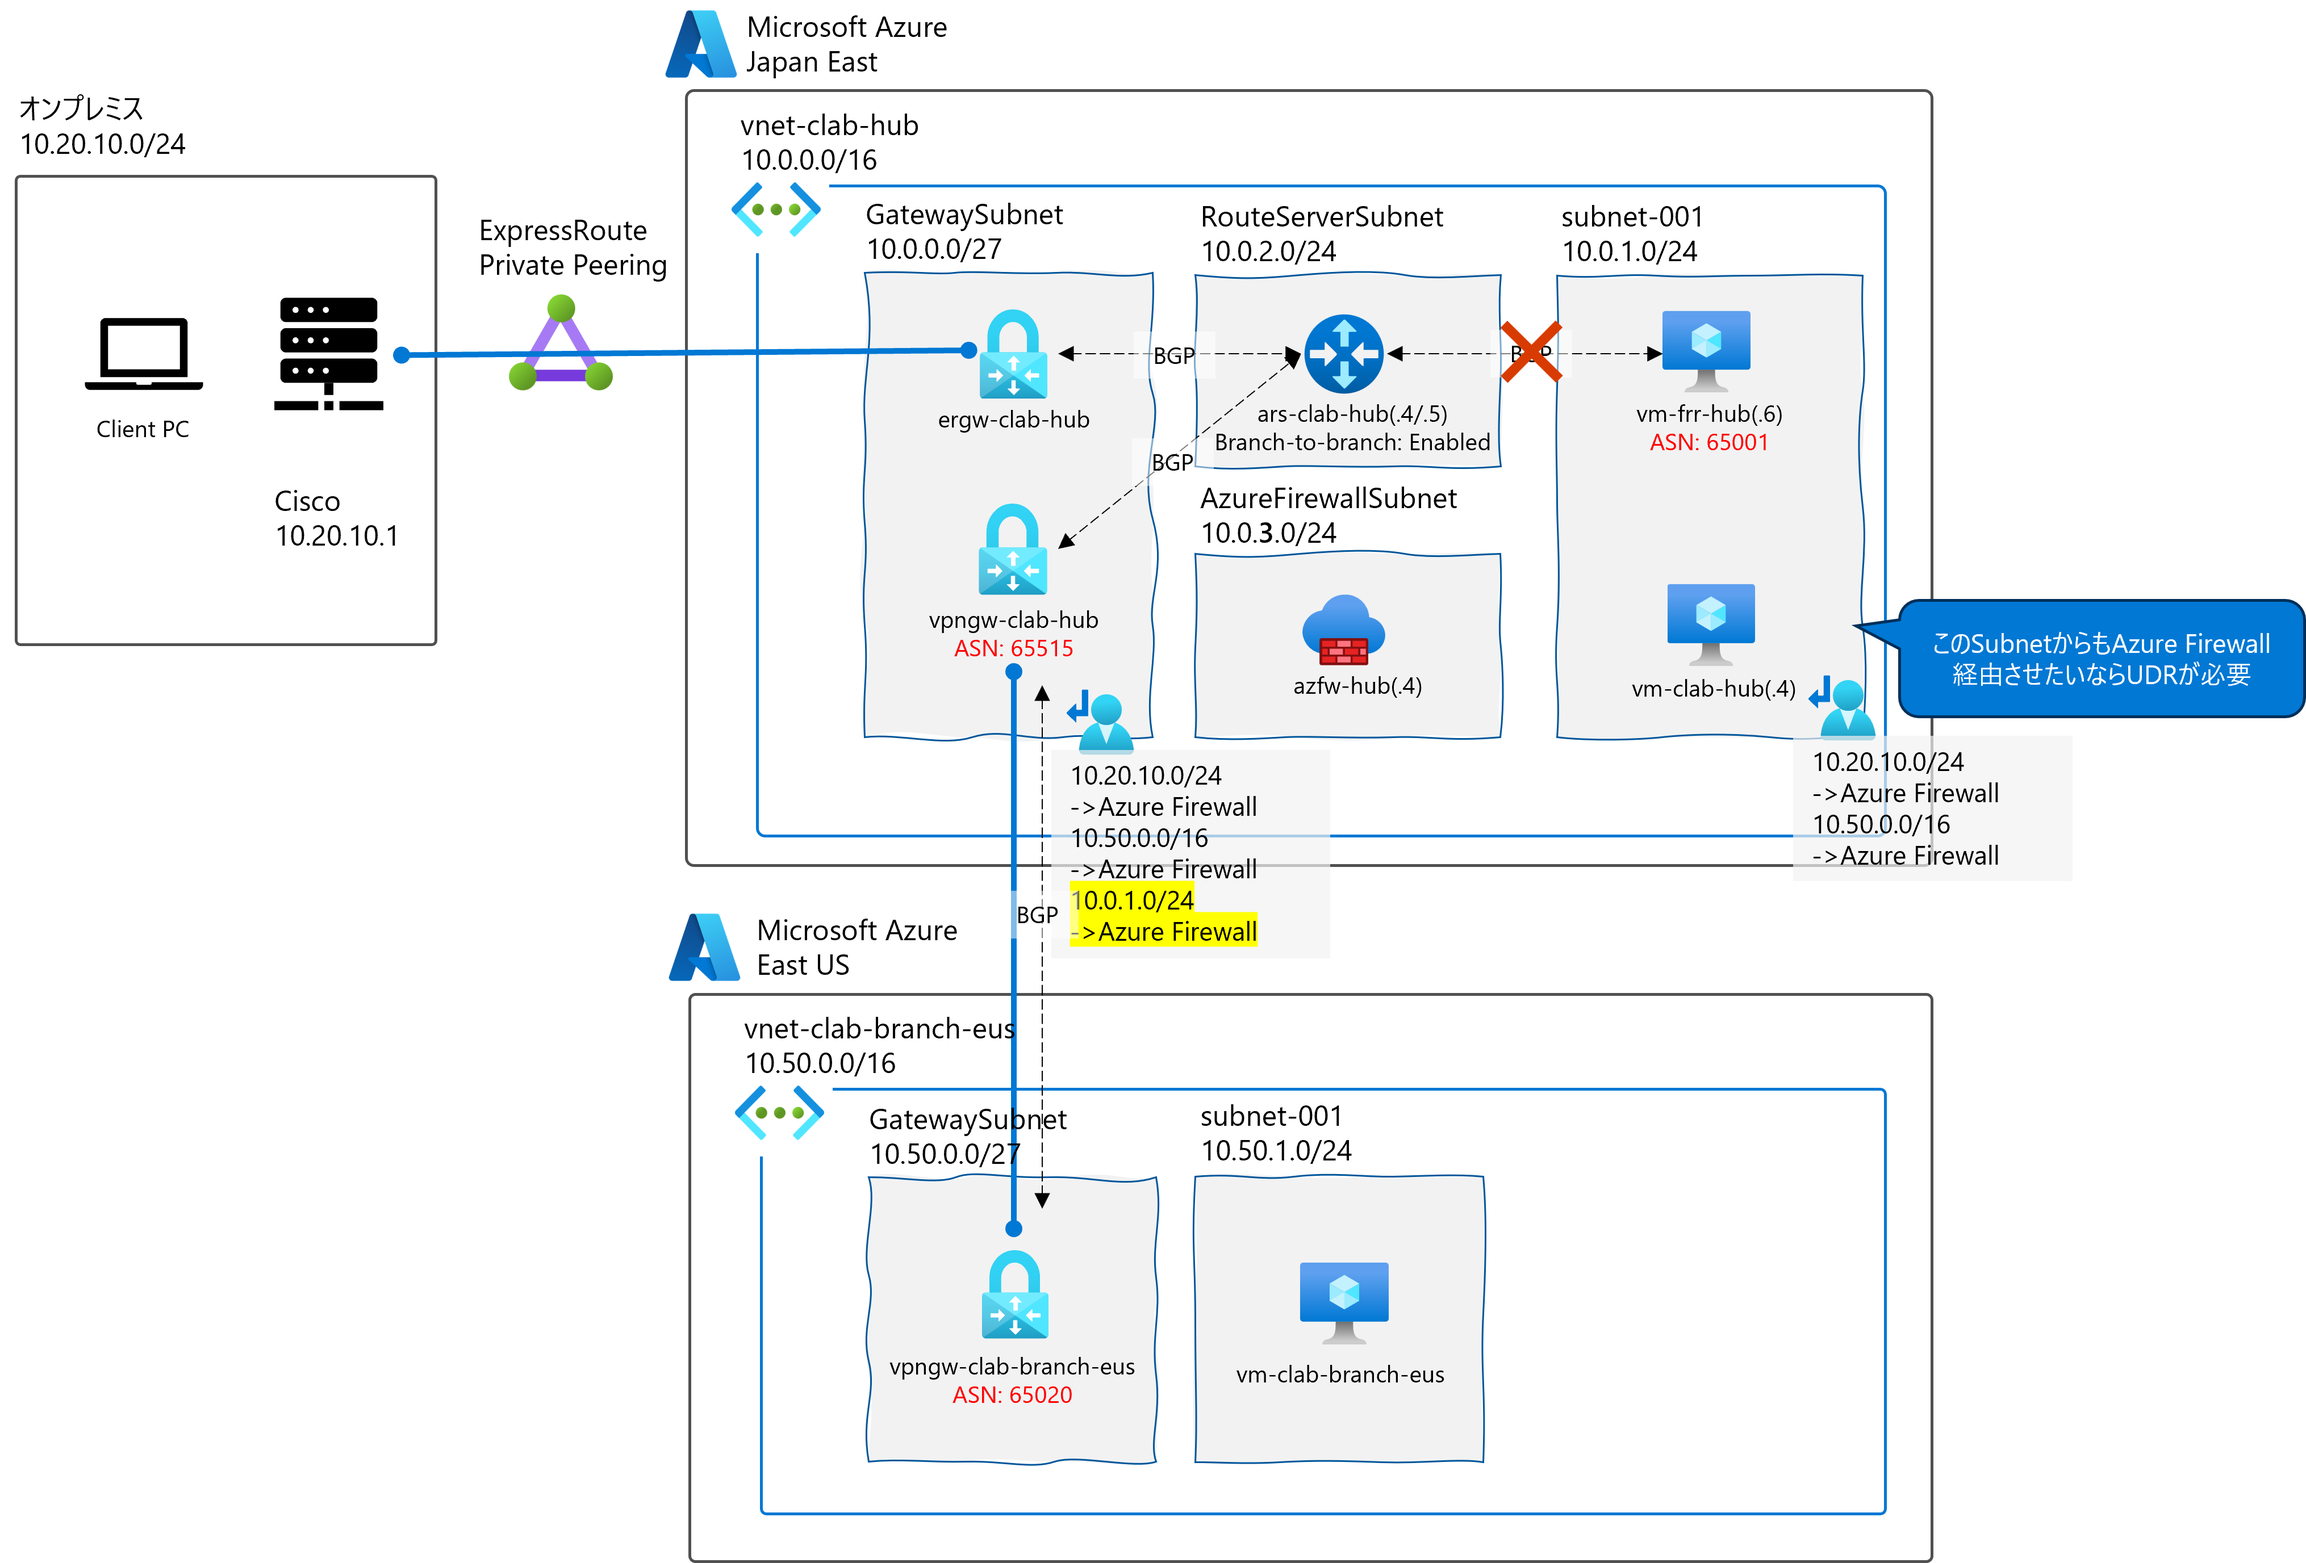
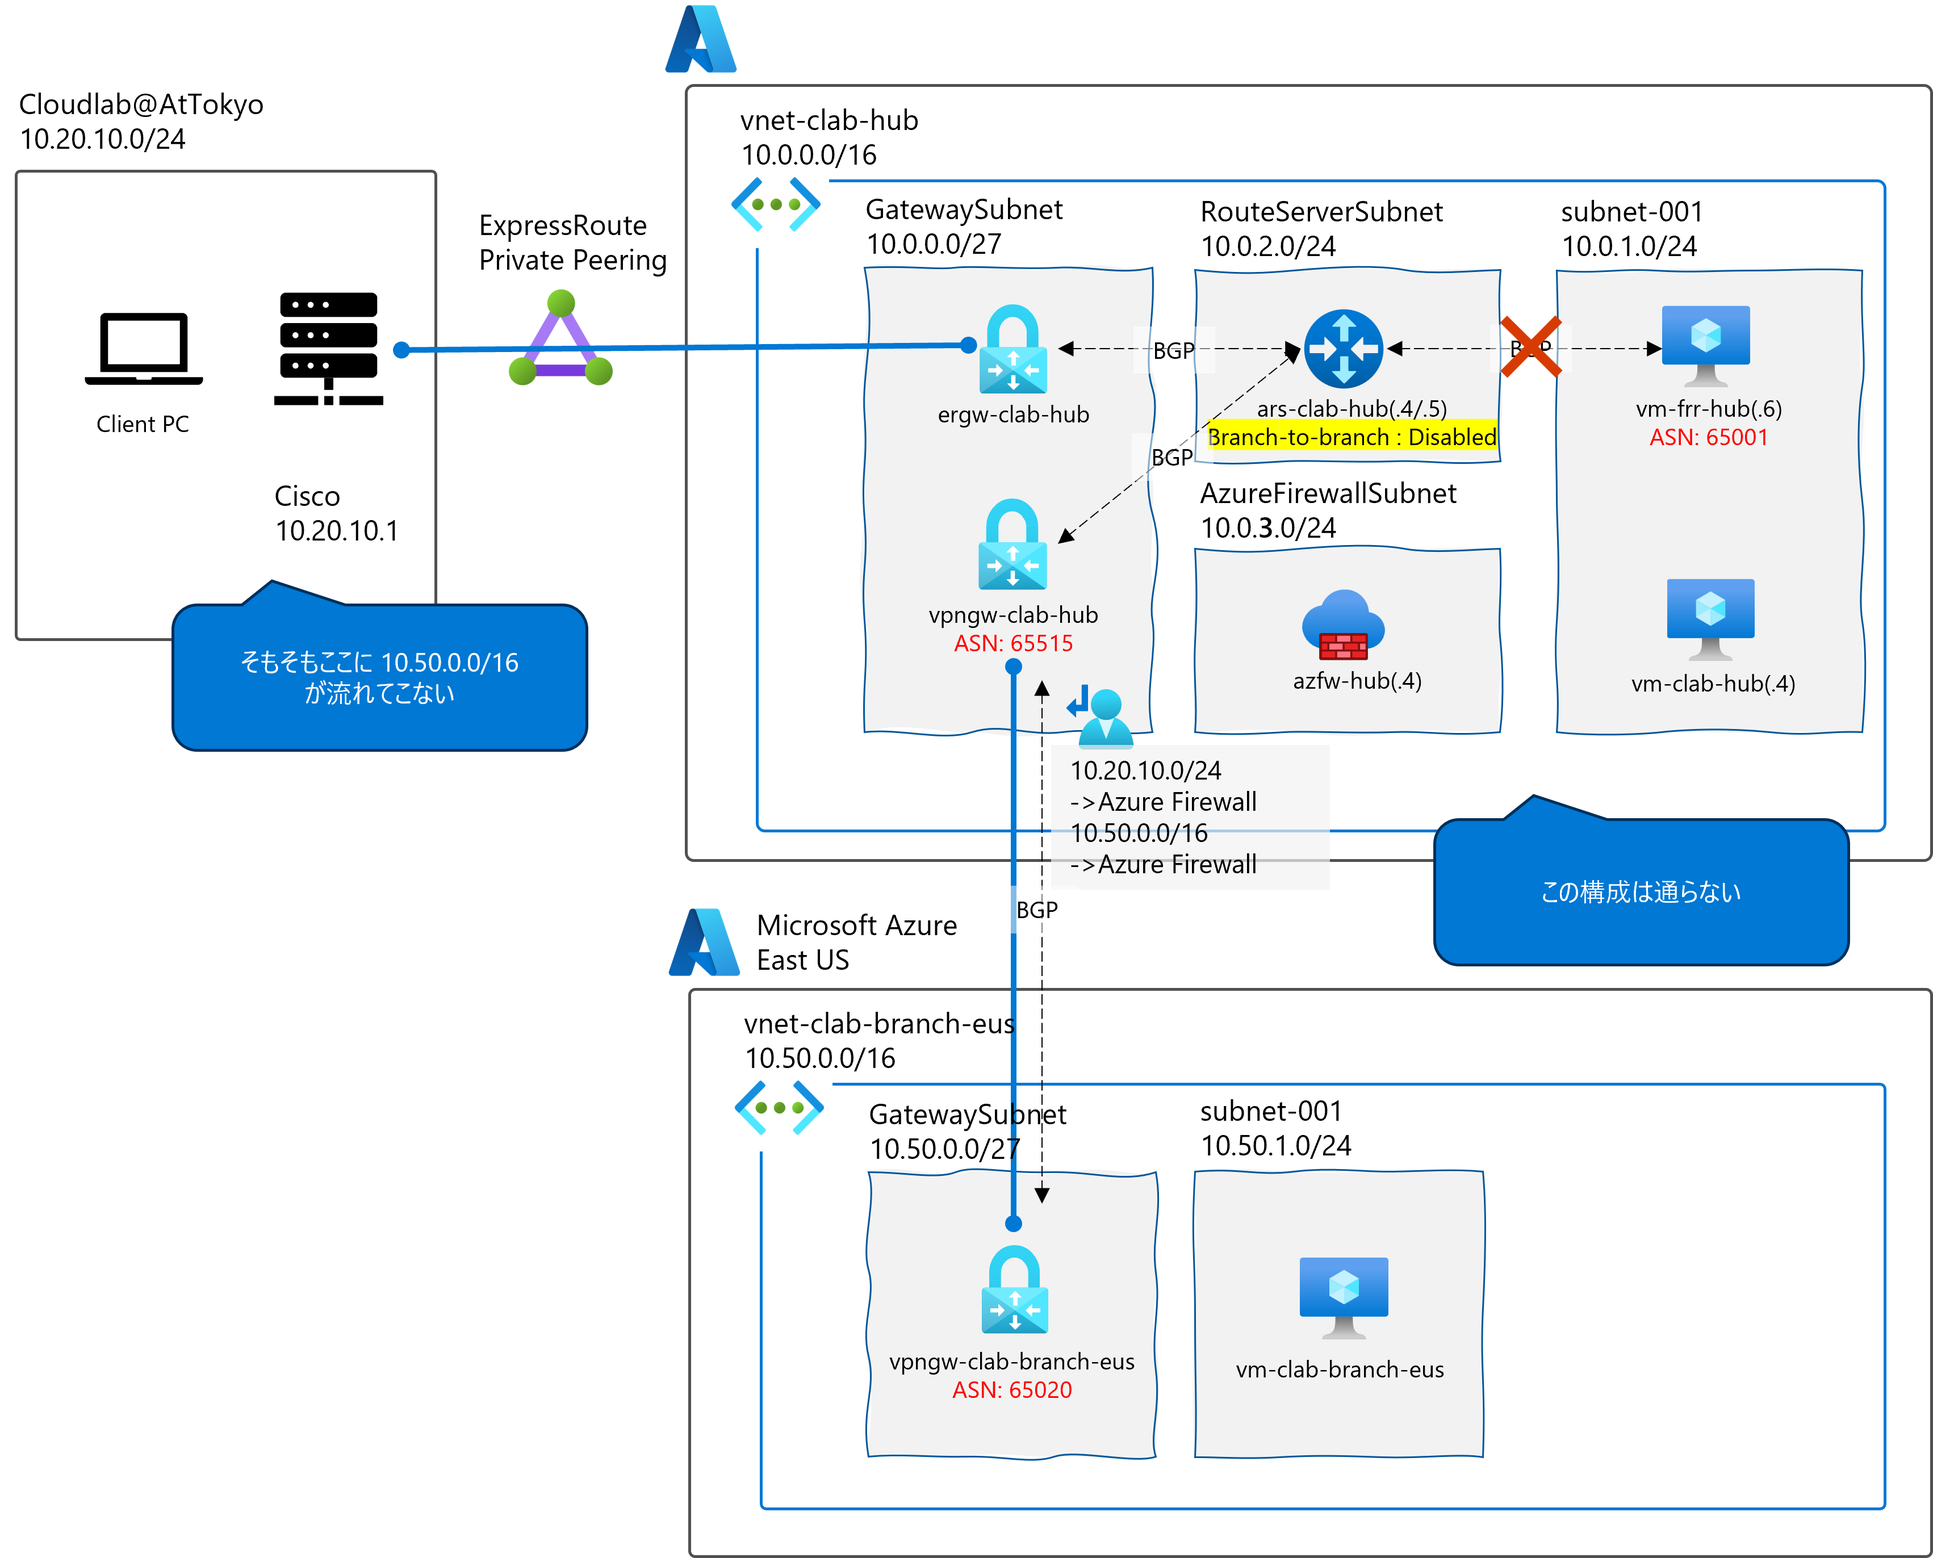
add img

diff --git a/articles/20231212-branch2branch-azfw.md b/articles/20231212-branch2branch-azfw.md
@@ -51,6 +51,8 @@ traceroute to 10.50.1.4 (10.50.1.4), 30 hops max, 60 byte packets
 
 ## ルートテーブルで制御するなら ARS は不要なのか？
 ARS においてブランチ間接続を Disabled にして確認をしたところ、疎通ができなくなりました。結果だけ見ればもちろん ARS が必要という結論になるだけなのですが、こちらの記事[^3]で細かい解説をしてくれています。結局のところ、ExpressRoute Gateway と VPN Gateway の間で直接の経路交換がなされないため、ARS が必要です。オンプレミス側にそもそもブランチの経路が流れてこなくなります。
+![](/images/20231212-branch2branch-azfw/arch-b2b-disabled.png)
+
 [^3]:https://zenn.dev/skmkzyk/articles/udr-is-not-effective-for-os
 
 ## ブランチが Azure VNet の場合は VNet-to-VNet の VPN を利用する
